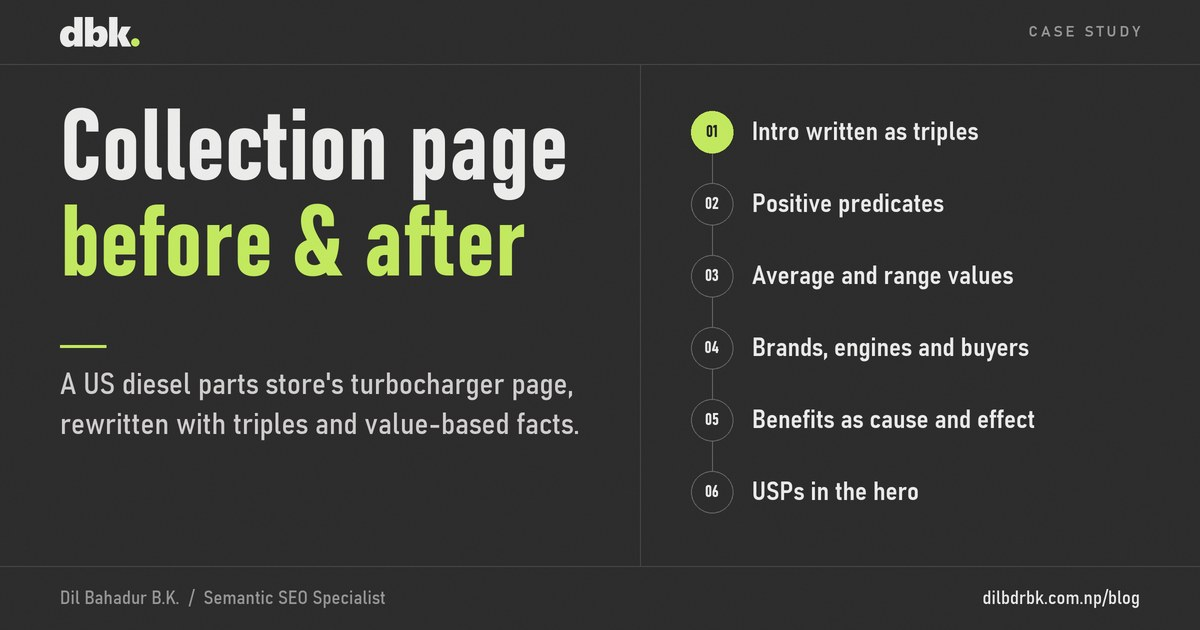
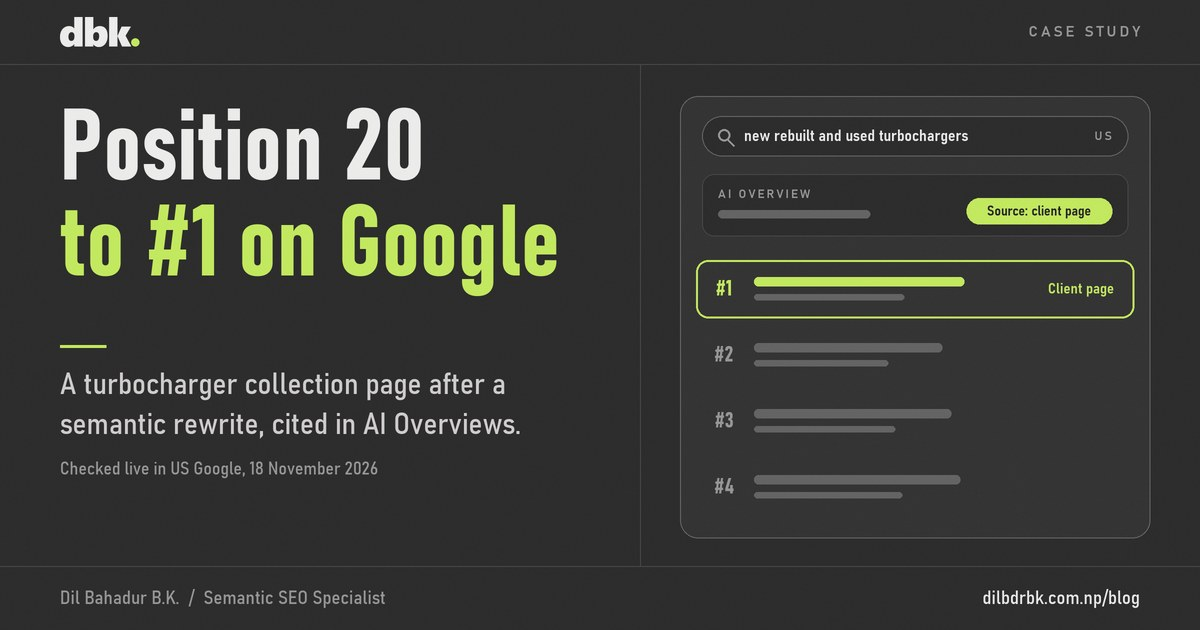
Case study results: live US rankings and AI Overview citations, redrawn results cover
Checked live in US Google on 18 November 2026: #1 for 3 searches with AI Overview citations, #3 and #6 for others.

diff --git a/case-studies/diesel-turbocharger-collection-page/index.html b/case-studies/diesel-turbocharger-collection-page/index.html
@@ -4,7 +4,7 @@
 <meta charset="utf-8">
 <meta name="viewport" content="width=device-width, initial-scale=1">
 <title>Collection Page SEO Case Study | Dil Bahadur B.K.</title>
-<meta name="description" content="A US diesel parts store&#x27;s turbocharger collection page, before and after: an intro rewritten as triples, positive predicates, value ranges and hero USPs.">
+<meta name="description" content="A diesel parts store&#x27;s turbocharger page went from position 20 to #1 on US Google, with AI Overview citations, after an intro rewritten as triples.">
 <link rel="author" href="https://dilbdrbk.com.np/about/">
 <meta name="author" content="Dil Bahadur B.K.">
 <meta name="keywords" content="Dil Bahadur B.K., Semantic SEO Specialist, SEO Specialist, Semantic SEO, Entity SEO, Topical Authority, Technical SEO, Local SEO, Nepal">
@@ -14,17 +14,17 @@
 <meta property="og:site_name" content="Dil Bahadur B.K.">
 <meta property="og:locale" content="en_US">
 <meta property="og:title" content="Collection Page SEO Case Study | Dil Bahadur B.K.">
-<meta property="og:description" content="A US diesel parts store&#x27;s turbocharger collection page, before and after: an intro rewritten as triples, positive predicates, value ranges and hero USPs.">
+<meta property="og:description" content="A diesel parts store&#x27;s turbocharger page went from position 20 to #1 on US Google, with AI Overview citations, after an intro rewritten as triples.">
 <meta property="og:url" content="https://dilbdrbk.com.np/case-studies/diesel-turbocharger-collection-page/">
 <meta property="og:image" content="https://dilbdrbk.com.np/assets/img/blog/case-study-turbocharger-collection.jpg">
 <meta property="og:image:width" content="1200">
 <meta property="og:image:height" content="630">
-<meta property="og:image:alt" content="Case study: a diesel turbocharger collection page rewritten with semantic triples, positive predicates and value-based facts.">
+<meta property="og:image:alt" content="Case study: a diesel turbocharger collection page moved from around position 20 to #1 on US Google, with AI Overview citations.">
 <meta name="twitter:card" content="summary_large_image">
 <meta name="twitter:title" content="Collection Page SEO Case Study | Dil Bahadur B.K.">
-<meta name="twitter:description" content="A US diesel parts store&#x27;s turbocharger collection page, before and after: an intro rewritten as triples, positive predicates, value ranges and hero USPs.">
+<meta name="twitter:description" content="A diesel parts store&#x27;s turbocharger page went from position 20 to #1 on US Google, with AI Overview citations, after an intro rewritten as triples.">
 <meta name="twitter:image" content="https://dilbdrbk.com.np/assets/img/blog/case-study-turbocharger-collection.jpg">
-<meta name="twitter:image:alt" content="Case study: a diesel turbocharger collection page rewritten with semantic triples, positive predicates and value-based facts.">
+<meta name="twitter:image:alt" content="Case study: a diesel turbocharger collection page moved from around position 20 to #1 on US Google, with AI Overview citations.">
 <link rel="icon" href="/favicon.ico" sizes="48x48">
 <link rel="icon" href="/icon.png" type="image/png" sizes="96x96">
 <link rel="apple-touch-icon" href="/apple-touch-icon.png" sizes="180x180">
@@ -245,17 +245,18 @@
       <li><a href="#entities">Entities and benefits</a></li>
       <li><a href="#hero">Hero banner USPs</a></li>
       <li><a href="#results">Results</a></li>
+      <li><a href="#lessons">Lessons</a></li>
     </ol>
   </div>
   <div class="body">
     <nav class="crumbs" aria-label="Breadcrumb"><a href="/">Home</a><span>/</span><a href="/case-studies/">Case Studies</a><span>/</span><span aria-current="page">Turbocharger Collection Page</span></nav>
     <p class="kicker"><span class="dot" aria-hidden="true"></span>Case study</p>
     <h1 class="page-title">Turbocharger collection page case study: from generic claims to triples and value-based facts</h1>
-    <p class="lede">A US diesel parts e-commerce store sells new, rebuilt and used turbochargers through one collection page. I rewrote the page's intro with semantic triples, positive predicates and value ranges, and I added four unique selling points to the hero banner.</p>
+    <p class="lede">A US diesel parts e-commerce store sells new, rebuilt and used turbochargers through one collection page. I rewrote the page's intro with semantic triples, positive predicates and value ranges, and I added four unique selling points to the hero banner. The page moved from around position 20 to #1 on US Google for 3 turbocharger searches, with citations in AI Overviews and AI Mode.</p>
     <ul class="cards cards-3" role="list">
       <li class="card card-static"><span class="idx">Client</span><p class="card-h">US diesel parts store</p><p>E-commerce, name withheld</p></li>
       <li class="card card-static"><span class="idx">Scope</span><p class="card-h">Intro and hero banner</p><p>Turbochargers collection page</p></li>
-      <li class="card card-static"><span class="idx">Status</span><p class="card-h">Results being measured</p><p>Numbers follow after 4 weeks</p></li>
+      <li class="card card-static"><span class="idx">Result</span><p class="card-h">#1 for 3 US searches</p><p>Cited in AI Overviews and AI Mode</p></li>
     </ul>
   </div>
 </section>
@@ -356,8 +357,31 @@
   <div class="rail"><p class="label"><span class="idx">06</span> Results</p></div>
   <div class="body prose policy">
     <h2 id="results-title">What results did the rewrite produce?</h2>
-    <p>Results are being measured. Once 4 weeks of data are in, I will add Search Console clicks, impressions, average position and click-through rate, compared over equal periods before and after the change.</p>
-    <p>This case study will show only numbers that a Search Console export supports, as the <a href="/editorial-policy/">editorial policy</a> requires. Other examples will appear on the <a href="/case-studies/">case studies page</a> as they are measured.</p>
+    <p>The collection page moved from around position 20, on Google's second page, onto the first page for 6 turbocharger searches, with 3 of them at #1. I checked every result live on 18 November 2026 in US Google results with personalization turned off.</p>
+    <div class="table-wrap">
+      <table>
+        <thead><tr><th scope="col">US Google search</th><th scope="col">Organic position</th><th scope="col">AI Overview</th></tr></thead>
+        <tbody>
+          <tr><td>new rebuilt and used turbochargers</td><td>#1</td><td>Cited as a source</td></tr>
+          <tr><td>diesel turbocharger replacement new rebuilt used</td><td>#1</td><td>Cited as a source</td></tr>
+          <tr><td>where to buy new rebuilt or used diesel turbochargers</td><td>#1</td><td>Cited as a source</td></tr>
+          <tr><td>used turbochargers for sale</td><td>#3</td><td>Not cited</td></tr>
+          <tr><td>rebuilt diesel turbochargers</td><td>#6</td><td>Not cited</td></tr>
+          <tr><td>buy diesel turbochargers</td><td>#6</td><td>Not cited</td></tr>
+        </tbody>
+      </table>
+    </div>
+    <p>Google's AI Mode also cites the page as the first source in its answer to where a buyer can order new, rebuilt or used diesel turbochargers online. The starting point of around position 20 comes from my own rank checks before the rewrite, so it is approximate.</p>
+    <p>The page does not reach the first page for broad head terms, such as "turbochargers for sale", where performance turbo brands hold most positions. The searches it wins combine the three conditions the intro names: new, rebuilt and used.</p>
+  </div>
+</section>
+
+<section class="frame" id="lessons" aria-labelledby="lessons-title">
+  <div class="rail"><p class="label"><span class="idx">07</span> Lessons</p></div>
+  <div class="body prose policy">
+    <h2 id="lessons-title">What does this case study show about collection page SEO?</h2>
+    <p>The strongest results came on searches that match the intro's own triples, such as new, rebuilt and used turbochargers. In my work, an intro that states what the store sells, who buys it and which values apply gives search engines and AI answers a clear passage to quote.</p>
+    <p>Rankings in this table come from live checks, not a tracking export, so positions can shift from day to day. Other examples will appear on the <a href="/case-studies/">case studies page</a> as each one is measured.</p>
   </div>
 </section>
 

diff --git a/_src/pages/case-study-turbocharger-collection.html b/_src/pages/case-study-turbocharger-collection.html
@@ -9,17 +9,18 @@
       <li><a href="#entities">Entities and benefits</a></li>
       <li><a href="#hero">Hero banner USPs</a></li>
       <li><a href="#results">Results</a></li>
+      <li><a href="#lessons">Lessons</a></li>
     </ol>
   </div>
   <div class="body">
     <nav class="crumbs" aria-label="Breadcrumb"><a href="/">Home</a><span>/</span><a href="/case-studies/">Case Studies</a><span>/</span><span aria-current="page">Turbocharger Collection Page</span></nav>
     <p class="kicker"><span class="dot" aria-hidden="true"></span>Case study</p>
     <h1 class="page-title">Turbocharger collection page case study: from generic claims to triples and value-based facts</h1>
-    <p class="lede">A US diesel parts e-commerce store sells new, rebuilt and used turbochargers through one collection page. I rewrote the page's intro with semantic triples, positive predicates and value ranges, and I added four unique selling points to the hero banner.</p>
+    <p class="lede">A US diesel parts e-commerce store sells new, rebuilt and used turbochargers through one collection page. I rewrote the page's intro with semantic triples, positive predicates and value ranges, and I added four unique selling points to the hero banner. The page moved from around position 20 to #1 on US Google for 3 turbocharger searches, with citations in AI Overviews and AI Mode.</p>
     <ul class="cards cards-3" role="list">
       <li class="card card-static"><span class="idx">Client</span><p class="card-h">US diesel parts store</p><p>E-commerce, name withheld</p></li>
       <li class="card card-static"><span class="idx">Scope</span><p class="card-h">Intro and hero banner</p><p>Turbochargers collection page</p></li>
-      <li class="card card-static"><span class="idx">Status</span><p class="card-h">Results being measured</p><p>Numbers follow after 4 weeks</p></li>
+      <li class="card card-static"><span class="idx">Result</span><p class="card-h">#1 for 3 US searches</p><p>Cited in AI Overviews and AI Mode</p></li>
     </ul>
   </div>
 </section>
@@ -120,8 +121,31 @@
   <div class="rail"><p class="label"><span class="idx">06</span> Results</p></div>
   <div class="body prose policy">
     <h2 id="results-title">What results did the rewrite produce?</h2>
-    <p>Results are being measured. Once 4 weeks of data are in, I will add Search Console clicks, impressions, average position and click-through rate, compared over equal periods before and after the change.</p>
-    <p>This case study will show only numbers that a Search Console export supports, as the <a href="/editorial-policy/">editorial policy</a> requires. Other examples will appear on the <a href="/case-studies/">case studies page</a> as they are measured.</p>
+    <p>The collection page moved from around position 20, on Google's second page, onto the first page for 6 turbocharger searches, with 3 of them at #1. I checked every result live on 18 November 2026 in US Google results with personalization turned off.</p>
+    <div class="table-wrap">
+      <table>
+        <thead><tr><th scope="col">US Google search</th><th scope="col">Organic position</th><th scope="col">AI Overview</th></tr></thead>
+        <tbody>
+          <tr><td>new rebuilt and used turbochargers</td><td>#1</td><td>Cited as a source</td></tr>
+          <tr><td>diesel turbocharger replacement new rebuilt used</td><td>#1</td><td>Cited as a source</td></tr>
+          <tr><td>where to buy new rebuilt or used diesel turbochargers</td><td>#1</td><td>Cited as a source</td></tr>
+          <tr><td>used turbochargers for sale</td><td>#3</td><td>Not cited</td></tr>
+          <tr><td>rebuilt diesel turbochargers</td><td>#6</td><td>Not cited</td></tr>
+          <tr><td>buy diesel turbochargers</td><td>#6</td><td>Not cited</td></tr>
+        </tbody>
+      </table>
+    </div>
+    <p>Google's AI Mode also cites the page as the first source in its answer to where a buyer can order new, rebuilt or used diesel turbochargers online. The starting point of around position 20 comes from my own rank checks before the rewrite, so it is approximate.</p>
+    <p>The page does not reach the first page for broad head terms, such as "turbochargers for sale", where performance turbo brands hold most positions. The searches it wins combine the three conditions the intro names: new, rebuilt and used.</p>
+  </div>
+</section>
+
+<section class="frame" id="lessons" aria-labelledby="lessons-title">
+  <div class="rail"><p class="label"><span class="idx">07</span> Lessons</p></div>
+  <div class="body prose policy">
+    <h2 id="lessons-title">What does this case study show about collection page SEO?</h2>
+    <p>The strongest results came on searches that match the intro's own triples, such as new, rebuilt and used turbochargers. In my work, an intro that states what the store sells, who buys it and which values apply gives search engines and AI answers a clear passage to quote.</p>
+    <p>Rankings in this table come from live checks, not a tracking export, so positions can shift from day to day. Other examples will appear on the <a href="/case-studies/">case studies page</a> as each one is measured.</p>
   </div>
 </section>
 

diff --git a/case-studies/index.html b/case-studies/index.html
@@ -208,16 +208,16 @@
     <nav class="crumbs" aria-label="Breadcrumb"><a href="/">Home</a><span>/</span><span aria-current="page">Case Studies</span></nav>
     <p class="kicker"><span class="dot" aria-hidden="true"></span>Case studies</p>
     <h1 class="page-title">SEO case studies from real client pages</h1>
-    <p class="lede">Each case study shows a live client page before and after my changes, the semantic SEO method behind each change and the results once Search Console has measured them.</p>
+    <p class="lede">Each case study shows a live client page before and after my changes, the semantic SEO method behind each change and the rankings it earned.</p>
   </div>
 </section>
 
 <section class="frame" aria-label="Case studies">
   <div class="body">
 <ul class="chk-cards" role="list">
-<li class="chk-card"><a href="/case-studies/diesel-turbocharger-collection-page/"><img src="/assets/img/blog/case-study-turbocharger-collection.webp?v=ce7c4aa7" width="1600" height="840" alt="" loading="lazy" decoding="async"><span class="chk-card-text"><span class="feature-meta"><time datetime="2026-11-18">18 November 2026</time><span>US diesel parts store</span><span>Results being measured</span></span><span class="chk-card-title">Turbocharger Collection Page: Before and After <span aria-hidden="true">&#8599;</span></span><span class="chk-card-desc">How a US diesel parts store&#x27;s collection page moved from generic claims to an intro built on triples, positive predicates, value ranges and hero USPs.</span></span></a></li>
+<li class="chk-card"><a href="/case-studies/diesel-turbocharger-collection-page/"><img src="/assets/img/blog/case-study-turbocharger-collection.webp?v=91eddeb0" width="1600" height="840" alt="" loading="lazy" decoding="async"><span class="chk-card-text"><span class="feature-meta"><time datetime="2026-11-18">18 November 2026</time><span>US diesel parts store</span><span>#1 for 3 US searches</span></span><span class="chk-card-title">Turbocharger Collection Page: Before and After <span aria-hidden="true">&#8599;</span></span><span class="chk-card-desc">A US diesel parts store&#x27;s collection page moved from around position 20 to #1 for 3 US searches, with AI Overview citations, after a semantic rewrite.</span></span></a></li>
 </ul>
-    <p class="section-note">Clients stay anonymous, so each study names the type of business, such as a US diesel parts store, and never the brand. Results show only numbers that a Search Console or analytics export supports, as the <a href="/editorial-policy/">editorial policy</a> sets out.</p>
+    <p class="section-note">Clients stay anonymous, so each study names the type of business, such as a US diesel parts store, and never the brand. Results show rankings I checked live or numbers an export supports, with the check date, as the <a href="/editorial-policy/">editorial policy</a> sets out.</p>
   </div>
 </section>
 

diff --git a/index.html b/index.html
@@ -844,7 +844,7 @@
     <h2 id="cases-title" class="section-title">Semantic SEO case studies from real pages</h2>
     <p class="section-note">See a live client page before and after my changes, such as a collection page rewritten with semantic triples and value-based facts. <a href="/case-studies/">See all case studies</a></p>
 <ul class="feature-posts" role="list">
-<li class="feature-card"><a href="/case-studies/diesel-turbocharger-collection-page/"><img src="/assets/img/blog/case-study-turbocharger-collection.webp?v=ce7c4aa7" width="1600" height="840" alt="" loading="lazy" decoding="async"><span class="feature-text"><span class="feature-tags"><span>Case study</span></span><span class="feature-meta"><time datetime="2026-11-18">18 November 2026</time><span>US diesel parts store</span><span>Results being measured</span></span><span class="feature-title">Turbocharger Collection Page: Before and After</span><span class="feature-desc">How a US diesel parts store&#x27;s collection page moved from generic claims to an intro built on triples, positive predicates, value ranges and hero USPs.</span><span class="feature-more">Read the case study</span></span></a></li>
+<li class="feature-card"><a href="/case-studies/diesel-turbocharger-collection-page/"><img src="/assets/img/blog/case-study-turbocharger-collection.webp?v=91eddeb0" width="1600" height="840" alt="" loading="lazy" decoding="async"><span class="feature-text"><span class="feature-tags"><span>Case study</span></span><span class="feature-meta"><time datetime="2026-11-18">18 November 2026</time><span>US diesel parts store</span><span>#1 for 3 US searches</span></span><span class="feature-title">Turbocharger Collection Page: Before and After</span><span class="feature-desc">A US diesel parts store&#x27;s collection page moved from around position 20 to #1 for 3 US searches, with AI Overview citations, after a semantic rewrite.</span><span class="feature-more">Read the case study</span></span></a></li>
 </ul>
   </div>
 </section>

diff --git a/_src/pages/case-studies.html b/_src/pages/case-studies.html
@@ -3,13 +3,13 @@
     <nav class="crumbs" aria-label="Breadcrumb"><a href="/">Home</a><span>/</span><span aria-current="page">Case Studies</span></nav>
     <p class="kicker"><span class="dot" aria-hidden="true"></span>Case studies</p>
     <h1 class="page-title">SEO case studies from real client pages</h1>
-    <p class="lede">Each case study shows a live client page before and after my changes, the semantic SEO method behind each change and the results once Search Console has measured them.</p>
+    <p class="lede">Each case study shows a live client page before and after my changes, the semantic SEO method behind each change and the rankings it earned.</p>
   </div>
 </section>
 
 <section class="frame" aria-label="Case studies">
   <div class="body">
 {{caseStudyCards}}
-    <p class="section-note">Clients stay anonymous, so each study names the type of business, such as a US diesel parts store, and never the brand. Results show only numbers that a Search Console or analytics export supports, as the <a href="/editorial-policy/">editorial policy</a> sets out.</p>
+    <p class="section-note">Clients stay anonymous, so each study names the type of business, such as a US diesel parts store, and never the brand. Results show rankings I checked live or numbers an export supports, with the check date, as the <a href="/editorial-policy/">editorial policy</a> sets out.</p>
   </div>
 </section>

diff --git a/_src/make_images.py b/_src/make_images.py
@@ -458,6 +458,45 @@ def ranking_card(im, box):
         d.text((px(x), px(y1 - 22)), text, font=f, fill=INK_2 if text == "Rollout" else MUTED, anchor=anchor)
 
 
+def serp_card(im, box, query, rows):
+    """A redrawn Google results panel: a search bar, an AI Overview source chip and ranked rows.
+    `rows` is a list of (position, is_client). Text is drawn as grey bars, so no site is named."""
+    x0, y0, x1, y1 = box
+    d = ImageDraw.Draw(im)
+    d.rounded_rectangle([px(x0), px(y0), px(x1), px(y1)], radius=px(18), fill=RAISE, outline=LINE_STRONG, width=R)
+    small = bahn(16, "SemiBold SemiCondensed")
+    label = bahn(12, "SemiBold")
+    # search bar
+    d.rounded_rectangle([px(x0 + 22), px(y0 + 20), px(x1 - 22), px(y0 + 60)], radius=px(20), fill=BG, outline=LINE_STRONG, width=R)
+    d.ellipse([px(x0 + 38), px(y0 + 33), px(x0 + 50), px(y0 + 45)], outline=MUTED, width=px(2))
+    d.line([(px(x0 + 48), px(y0 + 44)), (px(x0 + 54), px(y0 + 50))], fill=MUTED, width=px(2))
+    d.text((px(x0 + 64), px(y0 + 40)), query, font=small, fill=INK, anchor="lm")
+    tracked(d, (px(x1 - 38), px(y0 + 40)), "US", label, MUTED, px(2), anchor="rm")
+    # AI Overview strip
+    y = y0 + 78
+    d.rounded_rectangle([px(x0 + 22), px(y), px(x1 - 22), px(y + 62)], radius=px(12), fill=BG, outline=LINE, width=R)
+    tracked(d, (px(x0 + 38), px(y + 20)), "AI OVERVIEW", label, MUTED, px(2.2))
+    d.rounded_rectangle([px(x0 + 38), px(y + 36), px(x0 + 190), px(y + 44)], radius=px(4), fill=LINE_STRONG)
+    chip = "Source: client page"
+    cw = small.getlength(chip) / R + 26
+    d.rounded_rectangle([px(x1 - 38 - cw), px(y + 24), px(x1 - 38), px(y + 50)], radius=px(13), fill=ACCENT)
+    d.text((px(x1 - 38 - cw / 2), px(y + 37)), chip, font=bahn(14, "SemiBold SemiCondensed"), fill=INK_DARK, anchor="mm")
+    # ranked rows
+    y += 82
+    step = (y1 - 18 - y) / len(rows)
+    for pos, client in rows:
+        cy = y + step / 2
+        if client:
+            d.rounded_rectangle([px(x0 + 16), px(y + 4), px(x1 - 16), px(y + step - 4)], radius=px(12), outline=ACCENT, width=px(2))
+        d.text((px(x0 + 44), px(cy)), f"#{pos}", font=bahn(22, "Bold Condensed"), fill=ACCENT if client else MUTED, anchor="mm")
+        bar = ACCENT if client else LINE_STRONG
+        d.rounded_rectangle([px(x0 + 74), px(cy - 12), px(x0 + 74 + (210 if client else 170 + pos * 9)), px(cy - 3)], radius=px(4), fill=bar)
+        d.rounded_rectangle([px(x0 + 74), px(cy + 5), px(x0 + 74 + (150 if client else 120 + pos * 7)), px(cy + 11)], radius=px(3), fill=LINE_STRONG)
+        if client:
+            d.text((px(x1 - 36), px(cy)), "Client page", font=bahn(15, "SemiBold SemiCondensed"), fill=ACCENT, anchor="rm")
+        y += step
+
+
 def save_scaled(im, name, size, fmt, **opts):
     out = im.resize(size, Image.LANCZOS)
     out = grain(out)
@@ -591,11 +630,10 @@ def blog_images():
                              "Improve and give it time"], step=72)
     save_scaled(card, "core-update-recovery-steps.webp", (1200, 675), "WEBP", quality=84, method=6)
 
-    cover, d = feature_canvas(1200, 630, 640, ("Collection page", "before & after"),
-                              "A US diesel parts store's turbocharger page, rewritten with triples and value-based facts.",
-                              label="CASE STUDY")
-    steps_list(d, 712, 132, ["Intro written as triples", "Positive predicates", "Average and range values",
-                             "Brands, engines and buyers", "Benefits as cause and effect", "USPs in the hero"], step=72)
+    cover, d = feature_canvas(1200, 630, 640, ("Position 20", "to #1 on Google"),
+                              "A turbocharger collection page after a semantic rewrite, cited in AI Overviews.",
+                              note="Checked live in US Google, 18 November 2026", label="CASE STUDY")
+    serp_card(cover, (680, 96, 1150, 538), "new rebuilt and used turbochargers", [(1, True), (2, False), (3, False), (4, False)])
     for name, size, fmt, opts in (("case-study-turbocharger-collection.jpg", (1200, 630), "JPEG", dict(quality=88, optimize=True, progressive=True)),
                                   ("case-study-turbocharger-collection.webp", (1600, 840), "WEBP", dict(quality=82, method=6)),
                                   ("case-study-turbocharger-collection-thumb.webp", (640, 336), "WEBP", dict(quality=80, method=6))):

diff --git a/_src/build.py b/_src/build.py
@@ -110,9 +110,9 @@ PAGES = [
          crumb="Turbocharger Collection Page", updated="2026-11-18", kind="guide",
          trail=[("Case Studies", "/case-studies/")],
          og_image="/assets/img/blog/case-study-turbocharger-collection.jpg",
-         og_image_alt="Case study: a diesel turbocharger collection page rewritten with semantic triples, positive predicates and value-based facts.",
+         og_image_alt="Case study: a diesel turbocharger collection page moved from around position 20 to #1 on US Google, with AI Overview citations.",
          title="Collection Page SEO Case Study | Dil Bahadur B.K.",
-         description="A US diesel parts store's turbocharger collection page, before and after: an intro rewritten as triples, positive predicates, value ranges and hero USPs."),
+         description="A diesel parts store's turbocharger page went from position 20 to #1 on US Google, with AI Overview citations, after an intro rewritten as triples."),
     dict(path="/editorial-policy/", body="editorial-policy.html", crumb="Editorial Policy", updated="2026-10-29", kind="page",
          title="Editorial Policy: How SEO Guides Are Checked | Dil Bahadur B.K.",
          description="How Dil Bahadur B.K. researches, fact-checks and updates every SEO guide: a six-tier source hierarchy, claim-by-claim checks, AI use and corrections."),
@@ -739,9 +739,9 @@ CHECKLISTS = [
 # Case studies, newest first. Clients stay anonymous: a broad entity, never a name, logo or link.
 CASE_STUDIES = [
     dict(path="/case-studies/diesel-turbocharger-collection-page/", image="case-study-turbocharger-collection",
-         date="2026-11-18", client="US diesel parts store", status="Results being measured",
+         date="2026-11-18", client="US diesel parts store", status="#1 for 3 US searches",
          title="Turbocharger Collection Page: Before and After",
-         description="How a US diesel parts store's collection page moved from generic claims to an intro built on triples, positive predicates, value ranges and hero USPs."),
+         description="A US diesel parts store's collection page moved from around position 20 to #1 for 3 US searches, with AI Overview citations, after a semantic rewrite."),
 ]
 
 
